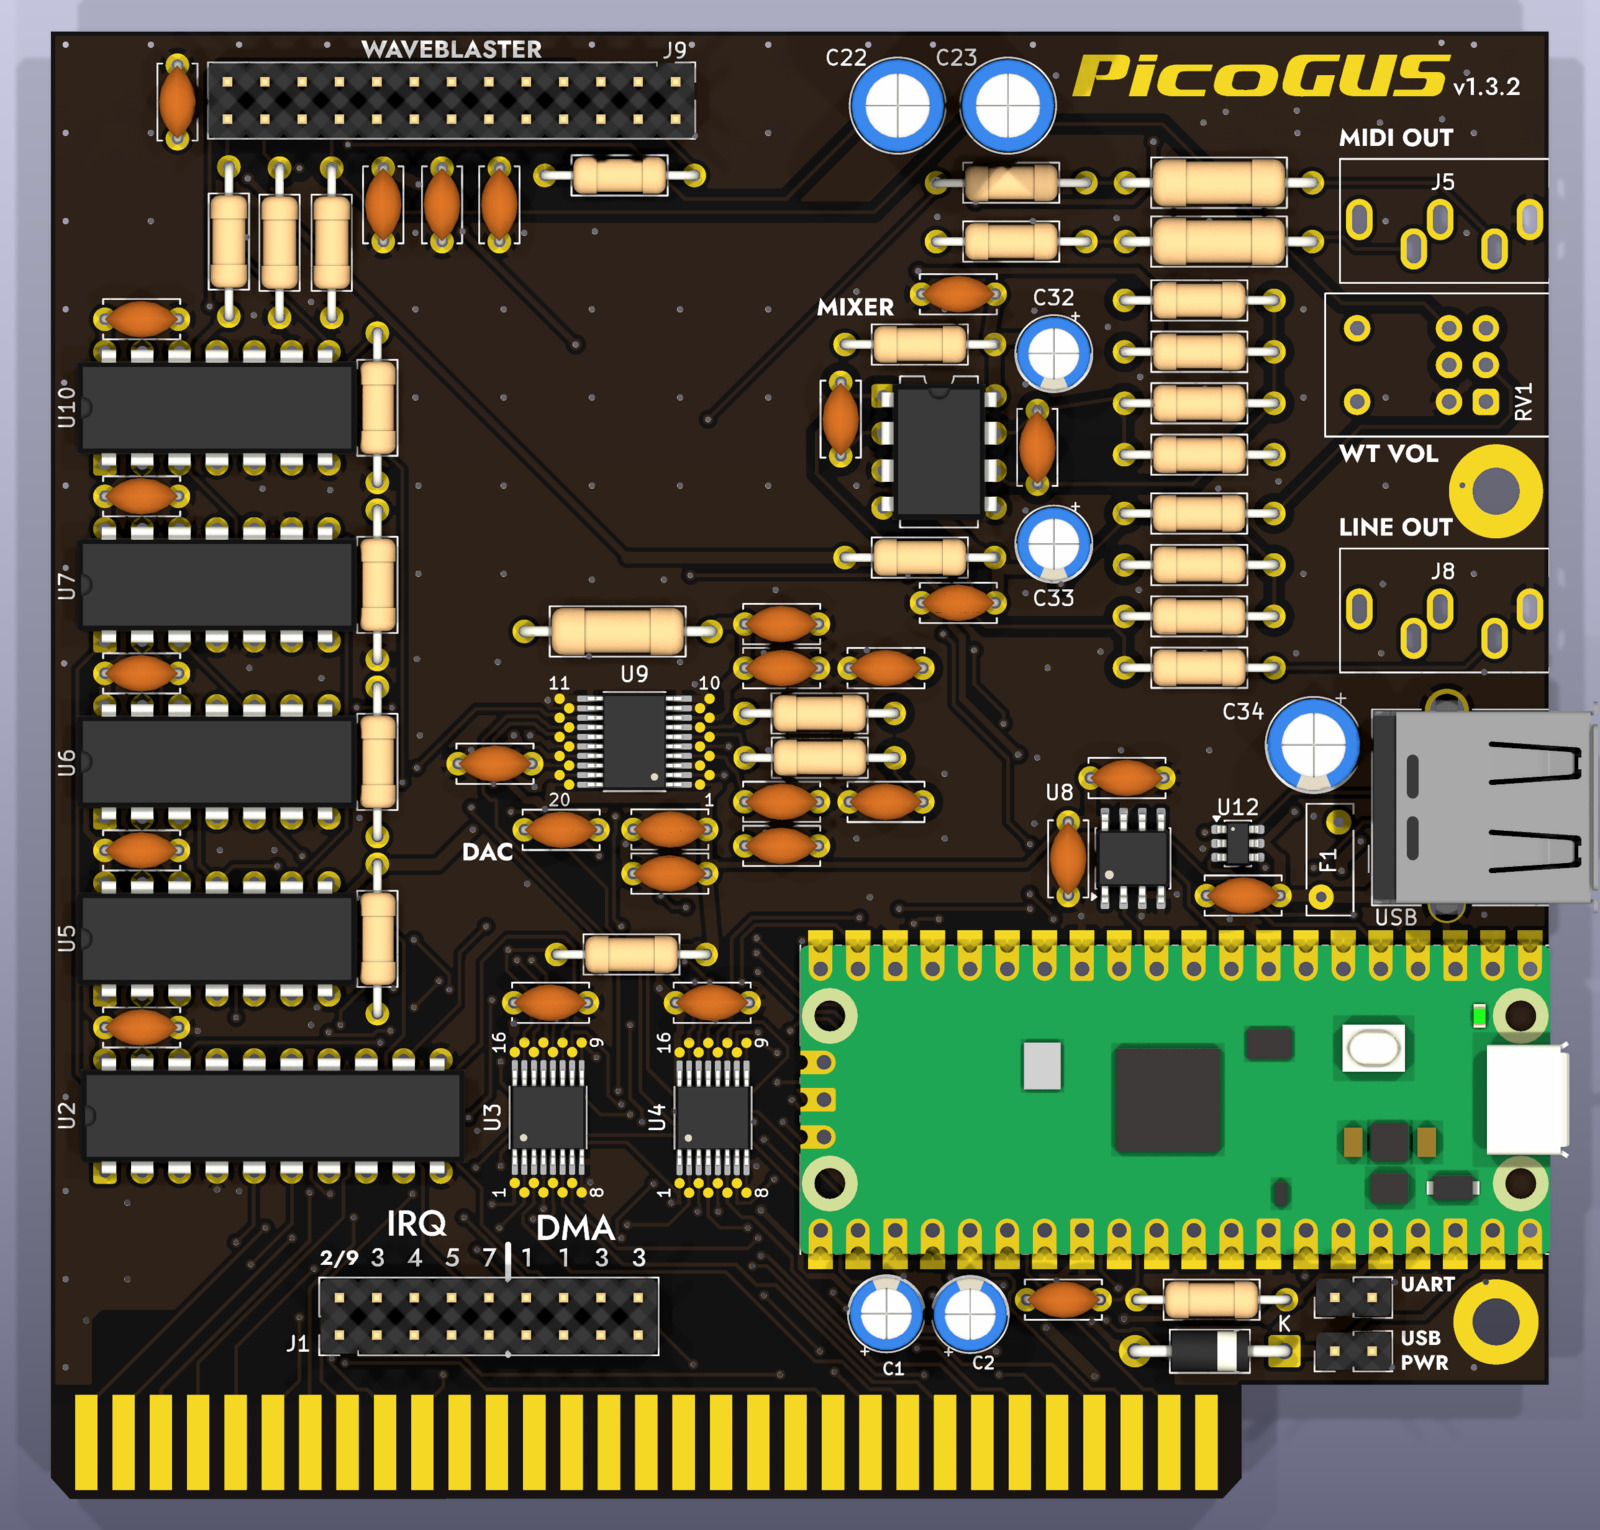
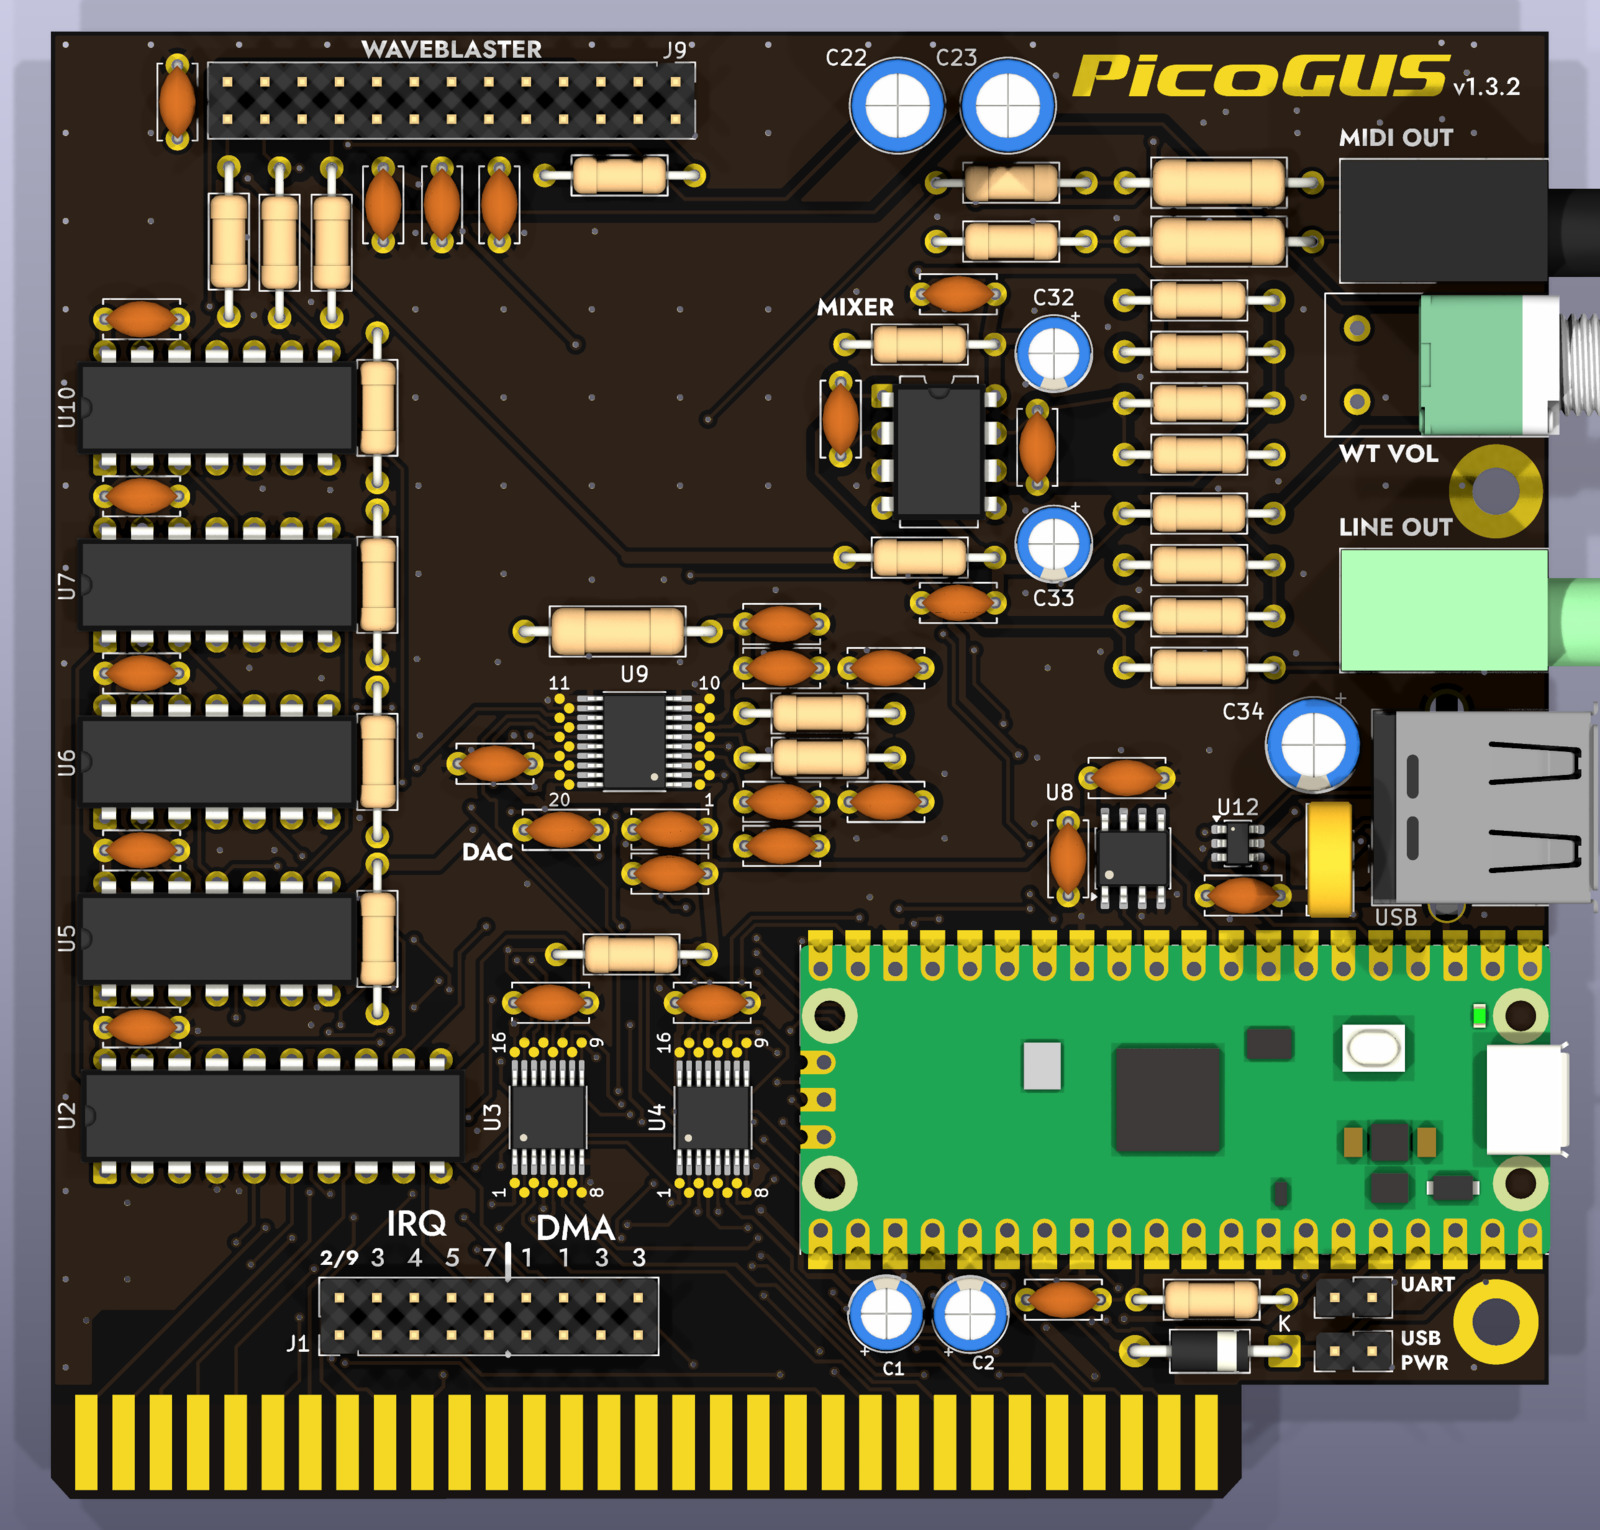
THT v1.3: back title "PicoGUS THT v1.3.2"; renders with all 3D models
- Back silkscreen title: "PicoGUS THT v1.3.2" (the v back in). Same spot
  and size, 0.44 mm from the nearest via hole; DRC unchanged; the JLCPCB
  export differs only in the back silkscreen. README notes follow.
- render.sh: the temporary copy re-points relative links such as
  parts -> ../hw-common/parts, where the jack, pot and F1 models live.
  Without that, the previous renders lost J5, J8, RV1 and F1.
- docs/renders: all six re-rendered with every 3D model.
- docs/lessons-learned.md: a copy of the board folder must keep the
  parts link.

Claude-Session: https://claude.ai/code/session_011utN3x8yYUNDvkpGCEq5yD

Changed region(s): [[0.7812, 0.0307, 1.0, 0.4915], [0.75, 0.4915, 0.9062, 0.6451], [0.7812, 0.1843, 0.8125, 0.215]]

diff --git a/hw-tht-v1.3/README.md b/hw-tht-v1.3/README.md
@@ -264,7 +264,7 @@ than J5/J8 did not.
 
 ### Silkscreen and back artwork
 
-* Front `v1.3.2`, back `PicoGUS THT 1.3.2` (THT added on 2026-11-07, so the back names the board).
+* Front `v1.3.2`, back `PicoGUS THT v1.3.2` (THT added on 2026-11-07, so the back names the board).
 * **Label font: Jost, embedded in the board file.** The 21 board labels (`WAVEBLASTER`, `MIXER`, `DAC`, `v1.3.2`,
   `LINE OUT`, `WT VOL`, `MIDI OUT`, `UART`, `USB PWR`, `IRQ`/`DMA` and their numbers, `< REAR`) use Jost Medium and
   Bold ([indestructible-type/Jost](https://github.com/indestructible-type/Jost), SIL Open Font License 1.1; the
@@ -762,7 +762,7 @@ out 0.3 mm around every pad and hole (silkscreen never lands on copper). **v1.3.
 is to be UV printed on the back instead (the routed v1.3.2 layout, commit 8dbb6c6, had it re-placed at 52.8 ×
 27.0 mm; see [Silkscreen and back artwork](#silkscreen-and-back-artwork)).
 
-The version and licence block sits between the Pico's pin rows, one text per line, starting with `PicoGUS THT 1.3.2`. Its link line reads
+The version and licence block sits between the Pico's pin rows, one text per line, starting with `PicoGUS THT v1.3.2`. Its link line reads
 `https://github.com/waagbo/picogus-tht`, the home of this board, as agreed with polpo (v1.3.1 linked
 github.com/polpo/picogus); its letters are 0.78 mm wide, like the thanks line, so it clears the via holes. The
 block ends with the thanks and the dedication: *Thanks to polpo and all the PicoGUS contributors. This revision is dedicated to my wonderful family, Mila

diff --git a/docs/lessons-learned.md b/docs/lessons-learned.md
@@ -96,6 +96,9 @@ silkscreen. Each round found real faults. Apply these from the start on the next
     classes only, and pours that break the audio 0.6 mm clearance.
   - Saving a board without its project file wrote the default rules over ours once (2e34b45).
   - Some tools rewrite the project file, so diff it before committing.
+- **The 3D models of the jacks, the pot and F1 live in `hw-common/parts`**, which the board folder links as `parts`
+  (`${KIPRJMOD}/parts/...`). A copy of the board folder (for a render or a review) must keep that link pointing at
+  the real folder, or those parts silently vanish from the 3D view; `hw-common/tools/render.sh` re-points it.
 - **Copying sheets between projects**: give the new items their own UUIDs. Reused UUIDs mixed up ERC markers.
 - **KiCad 10 draws an empty pin name `~` literally.** Use `""` instead.
 - **Check `Edge.Cuts` after every hand-edited upload.** The 6.35 mm step next to the ISA fingers (x 197.41) was
